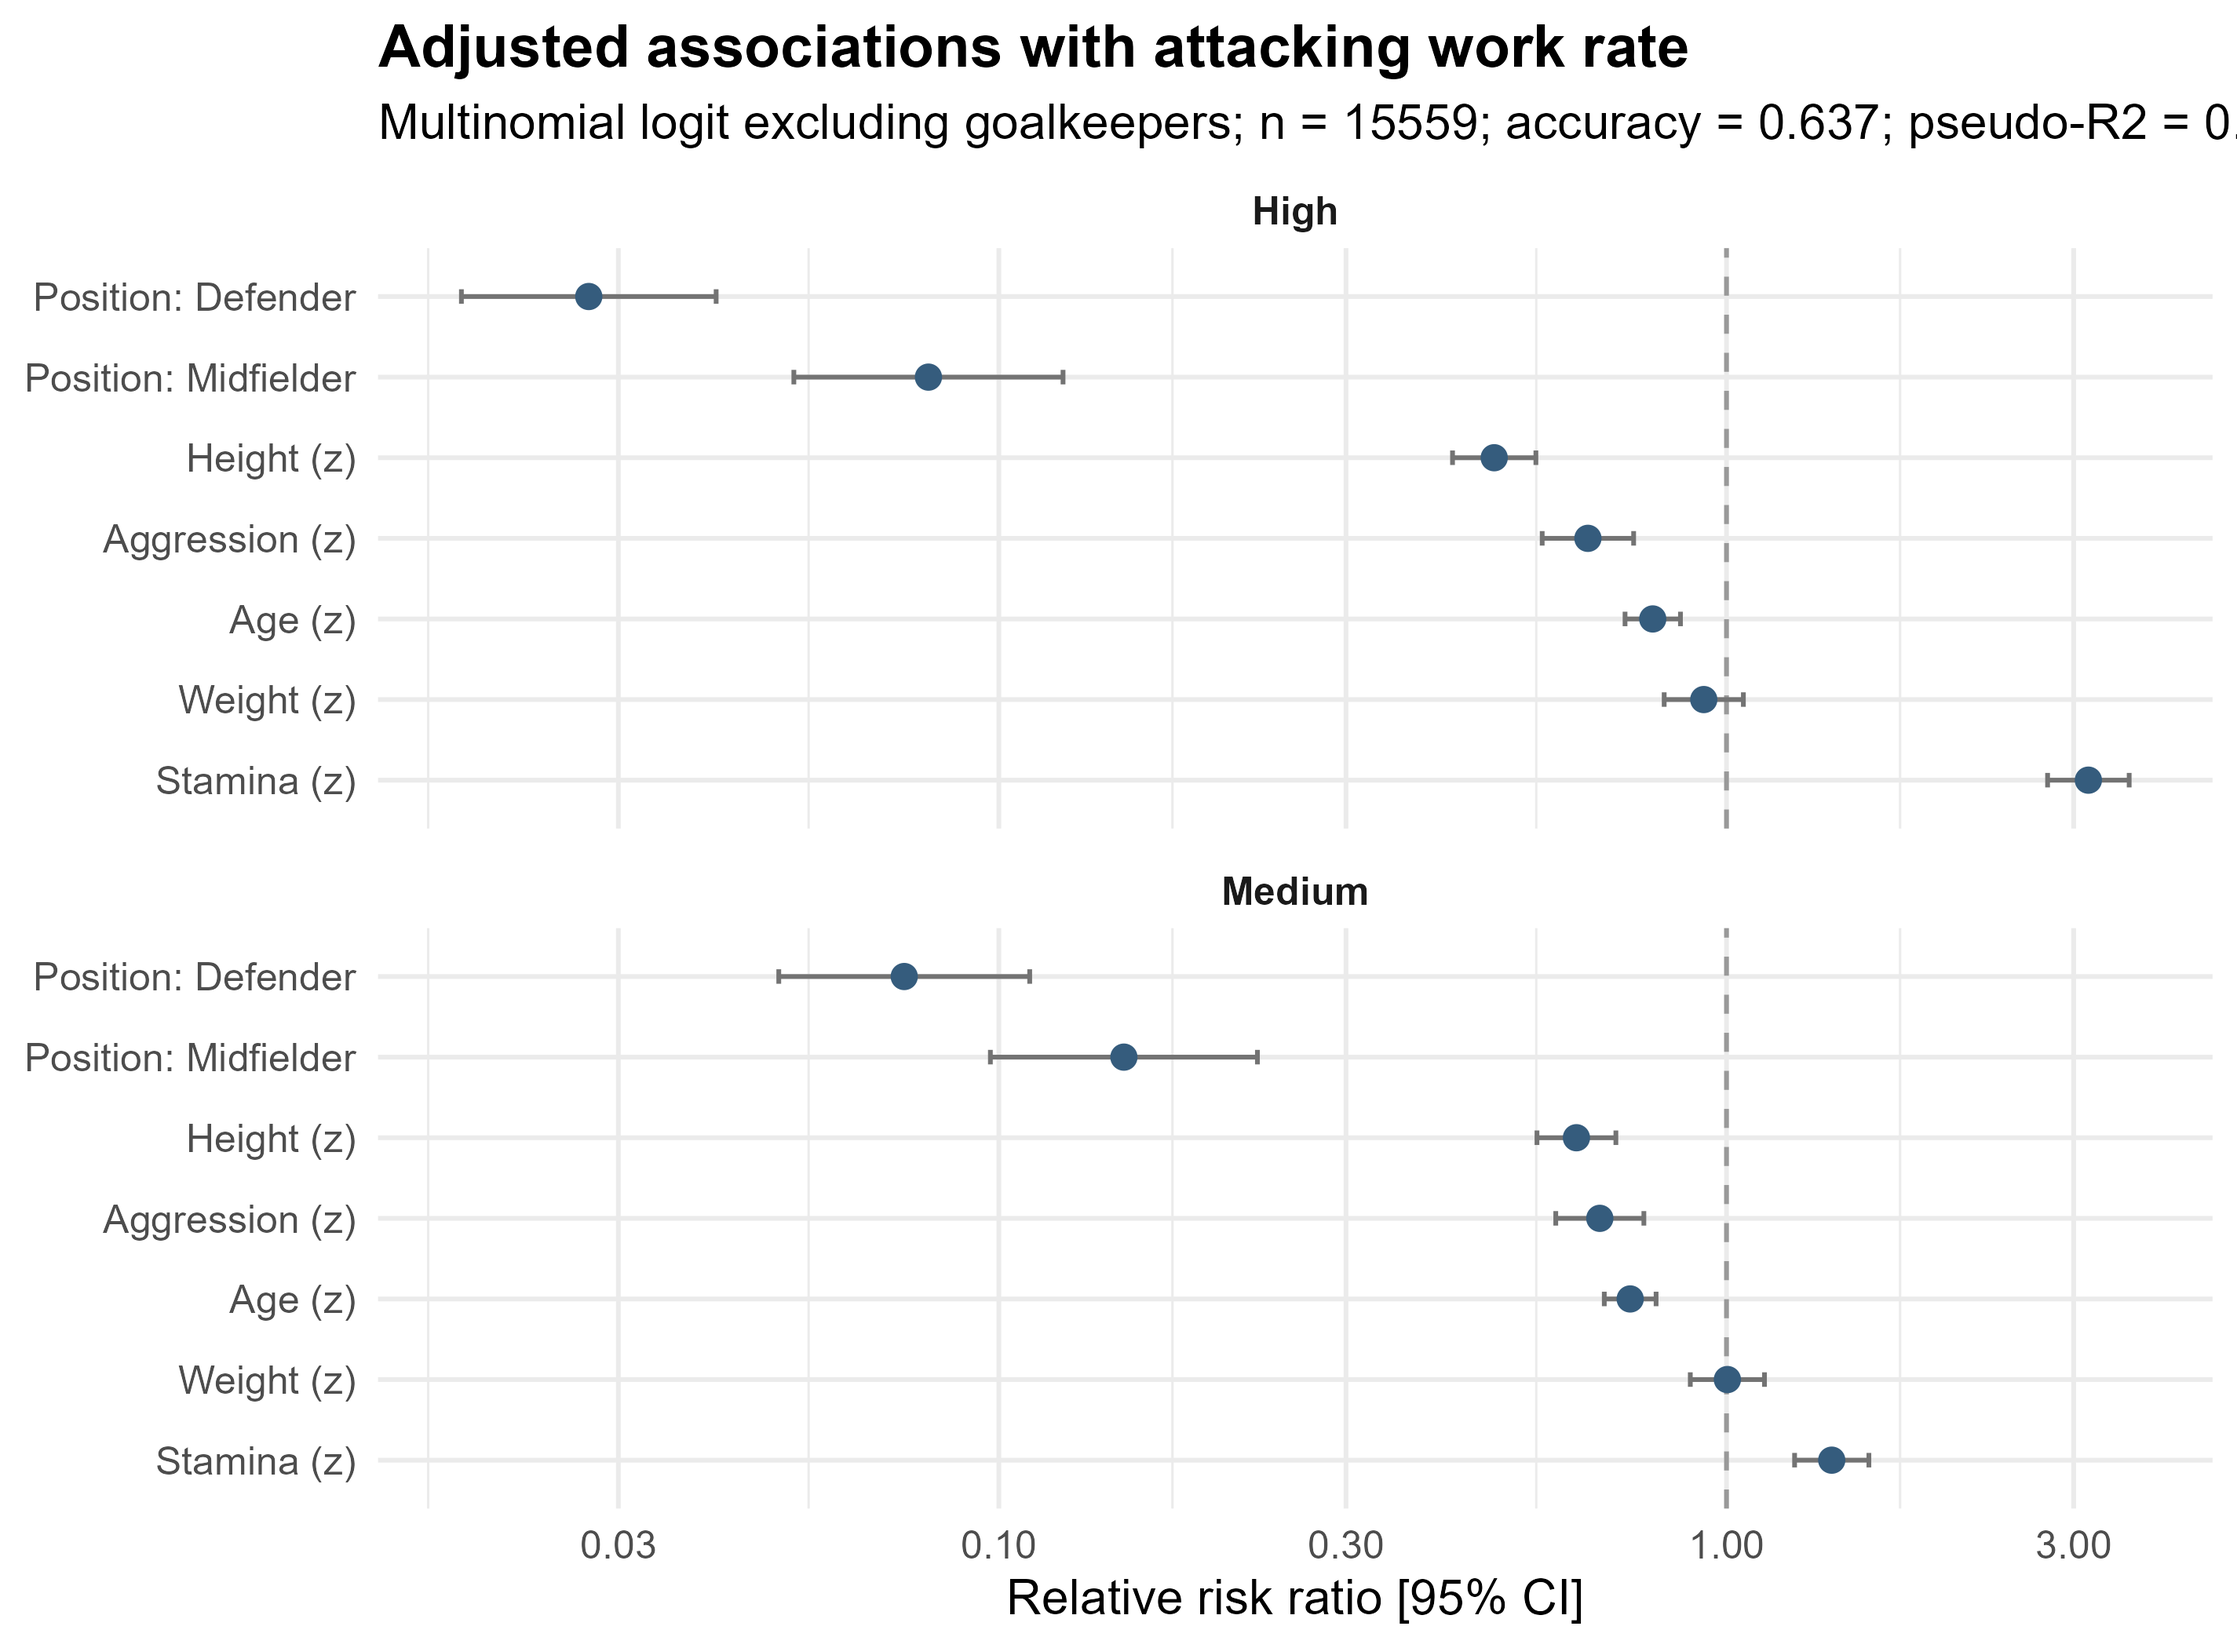
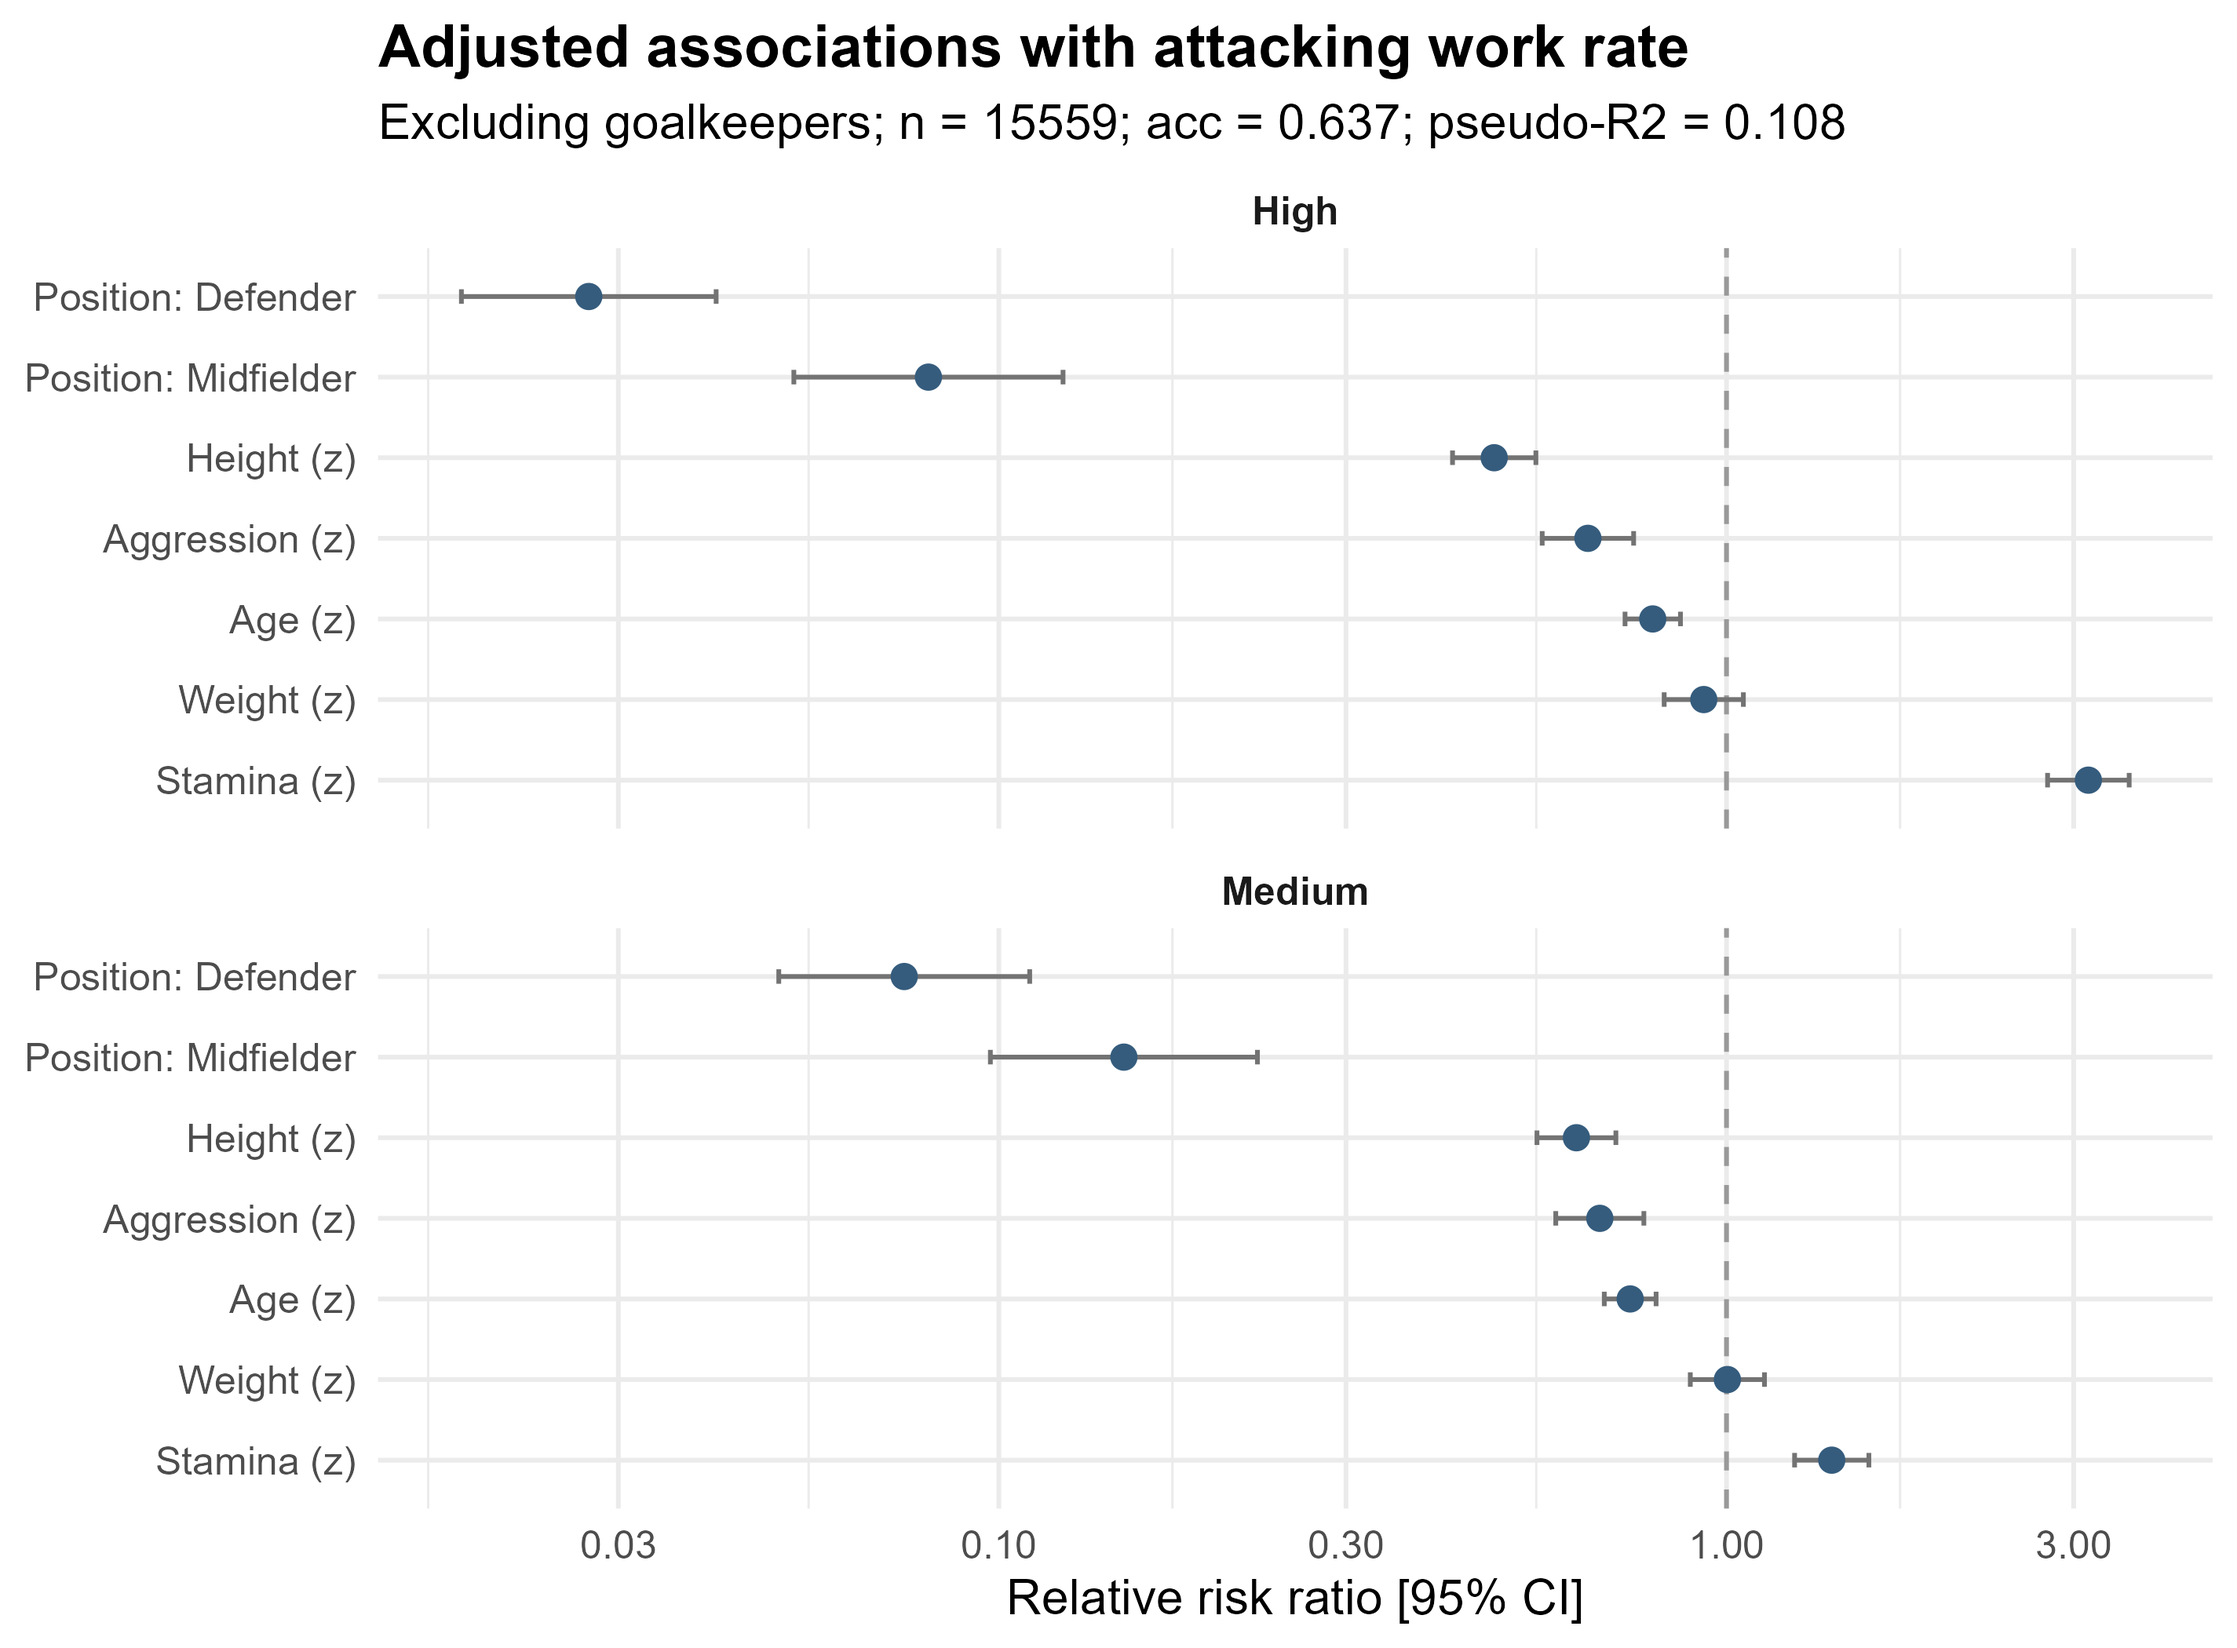
style(work_rate): perfect multi-panel layout with clear A/B/C annotations and subtitle

Changed region(s): [[0.1561, 0.0619, 0.9993, 0.0929]]

diff --git a/data/Work_Rate/README.md b/data/Work_Rate/README.md
@@ -54,4 +54,20 @@
 - **可视化图表规范**：生成的 EDA 图表和回归优势图（如 Odds Ratios 森林图）必须以高分辨率（300dpi）保存至 `figs/` 目录，并确保坐标轴标签清晰、排版美观以用于 Poster 制作。
 - **位置聚合与完美分离处理（核心）**：`Best Position` 包含 10 多个细分位置。请在建模前将位置聚类为大类（Forward, Midfielder, Defender, Goalkeeper）。**注意：由于 100% 的 Goalkeeper 的攻防投入度均为 Medium，这会导致多分类 Logistic 回归发生完美分离（Perfect Separation）进而系数崩溃。请在建立回归模型前，显式过滤掉门将数据（`filter(position_group != "Goalkeeper")`），将门将作为独立章节进行描述，不纳入回归方程。**
 - **提高模型区分度**：为了防止模型陷入“将所有球员都预测为 Medium”的惰性状态，必须将 `Stamina` 和 `Aggression` 作为核心自变量联合拟合，并在分析报告中讨论引入这两个变量后混淆矩阵的改善情况。
-- **拼图排版美化**：在使用 `patchwork` 或 `grid.arrange` 拼接 VIF 图和混淆矩阵图时，必须显式调整子图比例或缩小标题字号（如 `theme(plot.title = element_text(size = 10))`），**严禁出现任何文字重叠**。
+- **联合分类诊断图 fig_model_diagnostics.png 的排版重构约束（核心微调）**：
+  为了彻底根除 VIF 图与混淆矩阵图拼接时，各子图顶部标题（Predictor collinearity... 与 Attack model...）发生的严重文字重叠、叠影灾难，请直接对绘图脚本进行以下逻辑重构：
+  1. **移除子图原有标题**：请在生成 `plot_vif`、`plot_cm_attack` 和 `plot_cm_defense` 的代码中，将各自的 `labs(title = ...)` 彻底设为 `NULL`，从根源上清空图表顶部的文字冲突。
+  2. **改用字母标签定位**：使用 `patchwork` 拼图时，利用自动打标签功能标识子图（如 A, B, C），为 `plot_annotation()` 追加 `tag_levels = 'A'`。
+  3. **全局大标题降维安置**：将原本冲突的标题文字，统一收纳到整个拼图的最上方或最下方作为全局副标题或说明。示例代码逻辑：
+     ```R
+     (plot_vif | plot_cm_attack | plot_cm_defense) + 
+       plot_layout(widths = c(1.2, 2, 2)) +
+       plot_annotation(
+         title = "Model Checks and In-Sample Classification Fit",
+         subtitle = "A: Predictor collinearity check (VIF) | B: Attack model confusion matrix | C: Defense model confusion matrix",
+         theme = theme(
+           plot.title = element_text(size = 12, face = "bold"),
+           plot.subtitle = element_text(size = 9, color = "grey30")
+         )
+       )
+     ```
